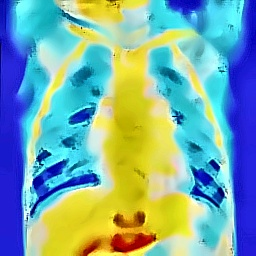
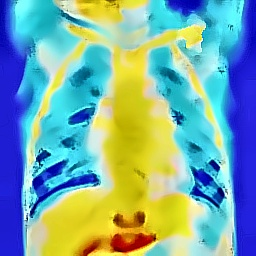
Basic Exemplar Inpainting

diff --git a/main.py b/main.py
@@ -2,7 +2,6 @@ import sys
 import os
 import cv2
 import numpy as np
-import math
 
 count = 0
 def print_position(event, x, y, flags, param):
@@ -11,7 +10,199 @@ def print_position(event, x, y, flags, param):
         count += 1
         print(f"position ({x},{y})")
 
-def process(img):
+def exemplar_paint(img, ksize=9):
+    # Make image grey
+    img_grey = cv2.cvtColor(img, cv2.COLOR_BGR2GRAY)
+
+    # Initialise confidence values for each pixel
+    # Non-empty pixels as 1
+    # Empty as 0
+    # ret, confidence = cv2.threshold(img_grey, 20, 1, cv2.THRESH_BINARY)
+    confidence = np.zeros(img_grey.shape[:2], dtype="uint8")
+    confidence[img_grey < 20] = 255
+    kernel = np.ones((3,3),np.uint8)
+    confidence = cv2.dilate(confidence, kernel, iterations = 1)
+    confidence = 255 - confidence
+    confidence = confidence.astype('float64')
+    confidence /= 255
+    conf3C = cv2.cvtColor(confidence.astype('uint8'), cv2.COLOR_GRAY2BGR)
+    img *= conf3C
+    # cv2.imshow('Confidence', confidence)
+
+    k_area = ksize * ksize
+    halfk = ksize // 2
+
+    # Run until area is fully painted
+    while True:
+        # Convert image to grey
+        img_grey = cv2.cvtColor(img, cv2.COLOR_BGR2GRAY)
+        # cv2.imshow('Grey image', img_grey)
+
+        # Threshold to get mask of paint area
+        thresh = np.zeros(img_grey.shape[:2], dtype="uint8")
+        thresh[img_grey < 10] = 255
+        thresh = 255 - thresh
+
+        # cv2.imshow('Binary image', thresh)
+
+        # Check if there are still pixels to paint in
+        h, w = img.shape[:2]
+        sample = cv2.countNonZero(thresh)
+        if sample == (h * w):
+            break
+
+        # Find the fill front of the fill area
+        contour, hierarchy = cv2.findContours(image=thresh, mode=cv2.RETR_TREE, method=cv2.CHAIN_APPROX_NONE)
+        contour = contour[1]
+
+        # img2 = img.copy()
+        # cv2.drawContours(image=img2, contours=contour, contourIdx=-1, color=(0, 255, 0), thickness=2, lineType=cv2.LINE_AA)
+        # cv2.imshow('Contours', img2)
+
+        # Calculate the priority of each contour point
+        max_priority = None
+        chosen_point = None
+        c_val = None
+        for i in range(len(contour)):
+            point = contour[i][0]
+            c = 0   # Confidence
+            d = 0   # Data
+
+            # Calculate confidence for the contour point
+            # Iterate through the kernal
+            # Take the average of the confidence values
+            confidence_patch = confidence[point[1] - halfk: point[1] + halfk + 1, point[0] - halfk: point[0] + halfk + 1]
+            c = np.sum(confidence_patch) / k_area
+            # for j in range(ksize):
+            #     for k in range(ksize):
+            #         kpoint = ((point[0]-(ksize // 2)) + j, (point[1]-(ksize // 2)) + k)
+            #         if thresh[kpoint[1]][kpoint[0]] == 255:
+            #             c += confidence[kpoint[1]][kpoint[0]]
+            # c /= k_area
+
+            # Calculate the normal of the contour point
+            # Find the tangent
+            prev_i = (i - 1) % len(contour)
+            next_i = (i + 1) % len(contour)
+
+            prev_point = contour[prev_i][0]
+            next_point = contour[next_i][0]
+            tan = next_point - prev_point
+
+            # Find the vector orthogonal to the tangent
+            normal = [-tan[1], tan[0]]
+            normal = normal / np.linalg.norm(normal)
+
+            # Find the isothope of the contour point
+            # Calculate the image partial derivatives
+            part_dir_x = cv2.Sobel(img_grey, cv2.CV_64F, 1, 0, ksize=1)
+            part_dir_y = cv2.Sobel(img_grey, cv2.CV_64F, 0, 1, ksize=1)
+
+            # empty = np.zeros(img.shape[:2], dtype="uint8")
+            # part_dir = cv2.merge([empty, part_dir_x.astype('uint8'), part_dir_y.astype('uint8')])
+            # cv2.imshow('Partial Derivatives', part_dir)
+            # cv2.waitKey(0)
+
+            # Find the edge orientation and magnitude of each point using the partial derivatives
+            # edge_orient = math.atan(part_dir_y[point[1]][point[0]] / part_dir_x[point[1]][point[0]])
+            # edge_mag = math.sqrt((part_dir_x[point[1]][point[0]] ** 2) + (part_dir_y[point[1]][point[0]] ** 2))
+
+            # Use the edge magnitude and orientation to find the orthogonal isothope
+            # isothope = [math.cos(edge_orient) * edge_mag, math.sin(edge_orient) * edge_mag]
+            isothope = [-part_dir_x[point[1]][point[0]], -part_dir_y[point[1]][point[0]]]
+
+            # copy = cv2.cvtColor(img_grey, cv2.COLOR_GRAY2BGR)
+            # cv2.line(copy, ((point[0], point[1])), ((point[0] + int(isothope[0] * 10), point[1] + int(isothope[1] * 10))), (0, 255, 0), 2, cv2.LINE_AA)
+            # cv2.line(copy, ((point[0], point[1])), ((point[0] + int(normal[0] * 10), point[1] + int(normal[1] * 10))), (0, 0, 255), 2, cv2.LINE_AA)
+            # cv2.imshow('Direction', copy)
+            # cv2.waitKey(0)
+
+            # Calculate the data value
+            d = ((normal[0] * isothope[0]) + (normal[1] * isothope[1])) / 255
+
+            priority = c * d
+
+            if max_priority == None:
+                max_priority = priority
+                chosen_point = point
+                c_val = c
+            
+            if priority > max_priority:
+                max_priority = priority
+                chosen_point = point
+                c_val = c
+
+        # print(chosen_point)
+
+        # img_lab = cv2.cvtColor(img, cv2.COLOR_BGR2LAB)
+
+        fill_patch = img[chosen_point[1] - halfk: chosen_point[1] + halfk + 1, chosen_point[0] - halfk: chosen_point[0] + halfk + 1]
+        fill_patchmask = thresh[chosen_point[1] - halfk: chosen_point[1] + halfk + 1, chosen_point[0] - halfk: chosen_point[0] + halfk + 1] / 255
+        fill_patchmask = fill_patchmask.astype('uint8')
+        fill_patchmask3C = cv2.cvtColor(fill_patchmask, cv2.COLOR_GRAY2BGR)
+
+        # fill_view_patch1 = cv2.resize(fill_patch, (225, 225), interpolation = cv2.INTER_LINEAR)
+        # cv2.imshow('fill orig', fill_view_patch1)
+
+        min_ssd = None
+        sample_patch = None
+        for i in range(halfk, h - halfk + 1):
+            for j in range(halfk, w - halfk + 1):
+                check_patchmask = thresh[i - halfk: i + halfk + 1, j - halfk: j + halfk + 1]
+
+                if cv2.countNonZero(check_patchmask) != k_area:
+                    continue
+
+                check_patch = img[i - halfk: i + halfk + 1, j - halfk: j + halfk + 1]
+
+                diff = check_patch * fill_patchmask3C
+
+                # view_patch = cv2.cvtColor(diff, cv2.COLOR_LAB2BGR)
+                # view_patch = cv2.resize(diff, (225, 225), interpolation = cv2.INTER_LINEAR)
+                # b, g, r = cv2.split(view_patch)
+                # cv2.imshow('sample', view_patch)
+
+                diff = fill_patch - diff
+                diff = np.square(diff)
+                ssd = np.sum(diff)
+
+                # cv2.waitKey(0)
+
+                if min_ssd == None:
+                    min_ssd = ssd
+                    sample_patch = check_patch
+                    continue
+
+                if ssd < min_ssd:
+                    min_ssd = ssd
+                    sample_patch = check_patch
+        # print(min_ssd)
+        # sample_patch = cv2.cvtColor(sample_patch, cv2.COLOR_LAB2BGR)
+        # sample_view_patch = cv2.resize(sample_patch, (225, 225), interpolation = cv2.INTER_LINEAR)
+        # cv2.imshow('sample', sample_view_patch)
+        # cv2.waitKey(0)
+
+        fill_patchmask = 1 - fill_patchmask
+        fill_patchmask3C = cv2.cvtColor(fill_patchmask, cv2.COLOR_GRAY2BGR)
+        sample_patch = sample_patch * fill_patchmask3C
+        fill_patch = fill_patch + sample_patch
+
+        # fill_view_patch = cv2.resize(fill_patch, (225, 225), interpolation = cv2.INTER_LINEAR)
+        # cv2.imshow('fill', fill_view_patch)
+
+        img[chosen_point[1] - halfk: chosen_point[1] + halfk + 1, chosen_point[0] - halfk: chosen_point[0] + halfk + 1] = fill_patch
+
+        conf_upd = fill_patchmask.astype('float64') * c_val
+        confidence[chosen_point[1] - halfk: chosen_point[1] + halfk + 1, chosen_point[0] - halfk: chosen_point[0] + halfk + 1] += conf_upd
+
+        # cv2.waitKey(0)
+
+    # cv2.imshow('Result', img)
+    # cv2.waitKey(0)
+
+    return img
+
+def process(img, verbose):
     # cv2.namedWindow('collect coordinate')
     # cv2.setMouseCallback('collect coordinate', print_position)
     # cv2.imshow('collect coordinate', img)
@@ -21,7 +212,7 @@ def process(img):
     #         break
 
     w, h = img.shape[:2]
-    corners = np.float32([[8, 15], [233, 5], [30, 235], [249, 227]])
+    corners = np.float32([[9, 15], [233, 5], [30, 235], [249, 227]])
     bounds = np.float32([[0, 0], [w, 0], [0, h], [w, h]])
 
     M = cv2.getPerspectiveTransform(corners, bounds)
@@ -40,11 +231,17 @@ def process(img):
 
     kernel = np.ones((3,3),np.uint8)
     mask = cv2.dilate(mask, kernel, iterations = 4)
+    # bilat2 = bilat.copy()
+    # bilat2 = cv2.GaussianBlur(bilat, (3, 3), 2)
+    # mask = cv2.dilate(mask, kernel, iterations = 2)
+    # bilat[mask == 255] = bilat2[mask == 255]
 
-    paint = cv2.inpaint(bilat,mask,5,cv2.INPAINT_NS)
+    paint = exemplar_paint(bilat)
+
+    # paint = cv2.inpaint(bilat,mask,5,cv2.INPAINT_NS)
 
     paint2 = paint.copy()
-    paint2 = cv2.medianBlur(paint, 7)
+    paint2 = cv2.GaussianBlur(paint, (3, 3), 2)
     mask = cv2.dilate(mask, kernel, iterations = 2)
     paint[mask == 255] = paint2[mask == 255]
 
@@ -139,32 +336,37 @@ def process(img):
     # lab = cv2.merge([l, a, b])
     # contrast2 = cv2.cvtColor(lab, cv2.COLOR_Lab2BGR)
 
-    # cv2.imshow('orig', img)
-    # cv2.imshow('warp', warp)
-    # cv2.imshow('denoise', denoise)
-    # cv2.imshow('bilat', bilat)
-    # # cv2.imshow('median', median)
-    # cv2.imshow('paint', paint)
-    # # cv2.imshow('median2', median2)
-    # cv2.imshow('sharp', sharp)
-    # cv2.imshow('contrast', contrast)
-    # cv2.imshow('denoise2', denoise2)
-    # # cv2.imshow('bilat2', bilat2)
-    # # cv2.imshow('denoise3', denoise3)
-    # cv2.imshow('gamma', gamma)
-    # # cv2.imshow('contrast2', contrast2)
-    # cv2.imshow('col', col)
-    # cv2.imshow('l', l)
-    # cv2.imshow('s', s)
-    # cv2.imshow('v', v)
-    # cv2.imshow('h', h)
-    # cv2.waitKey(0)
+    if verbose:
+        cv2.imshow('orig', img)
+        cv2.imshow('warp', warp)
+        cv2.imshow('denoise', denoise)
+        cv2.imshow('bilat', bilat)
+        # cv2.imshow('median', median)
+        cv2.imshow('paint', paint)
+        # cv2.imshow('median2', median2)
+        cv2.imshow('sharp', sharp)
+        cv2.imshow('contrast', contrast)
+        cv2.imshow('denoise2', denoise2)
+        # cv2.imshow('bilat2', bilat2)
+        # cv2.imshow('denoise3', denoise3)
+        # cv2.imshow('gamma', gamma)
+        # cv2.imshow('contrast2', contrast2)
+        # cv2.imshow('col', col)
+        # cv2.imshow('l', l)
+        # cv2.imshow('s', s)
+        # cv2.imshow('v', v)
+        # cv2.imshow('h', h)
+        cv2.waitKey(0)
     return denoise2
 
 if __name__ == "__main__":
     path = sys.argv[1]
     if not os.path.exists("./Results"):
         os.makedirs("./Results")
+    
+    verbose = False
+    if len(sys.argv) == 3:
+        verbose = True
 
     for root, dirs, files in os.walk(path):
         for file in files:
@@ -175,6 +377,6 @@ if __name__ == "__main__":
 
             img = cv2.imread(file_path, cv2.IMREAD_COLOR)
 
-            res = process(img)
+            res = process(img, verbose)
 
             cv2.imwrite(os.path.join("./Results", file), res)
